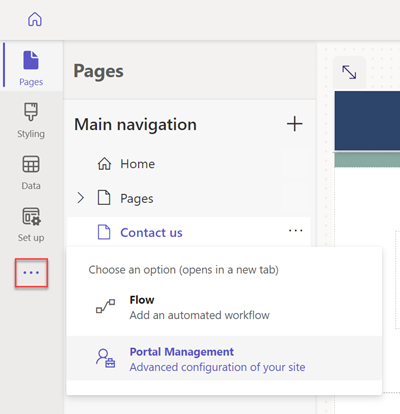
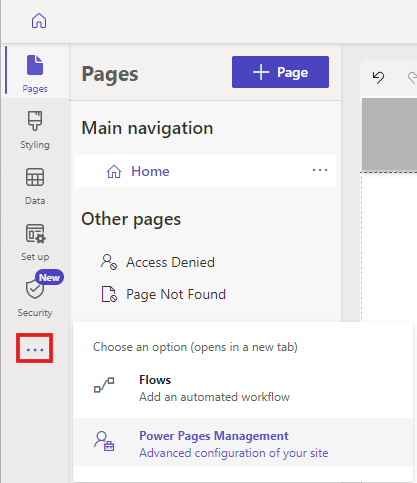
update screenshots

diff --git a/power-pages-docs/security/table-permissions.md b/power-pages-docs/security/table-permissions.md
@@ -4,7 +4,7 @@ description: Learn how to set and manage table permissions.
 author: gitanjalisingh33msft
 ms.topic: conceptual
 ms.custom: 
-ms.date: 3/30/2023
+ms.date: 7/25/2024
 ms.author: gisingh
 ms.reviewer: kkendrick
 contributors:
